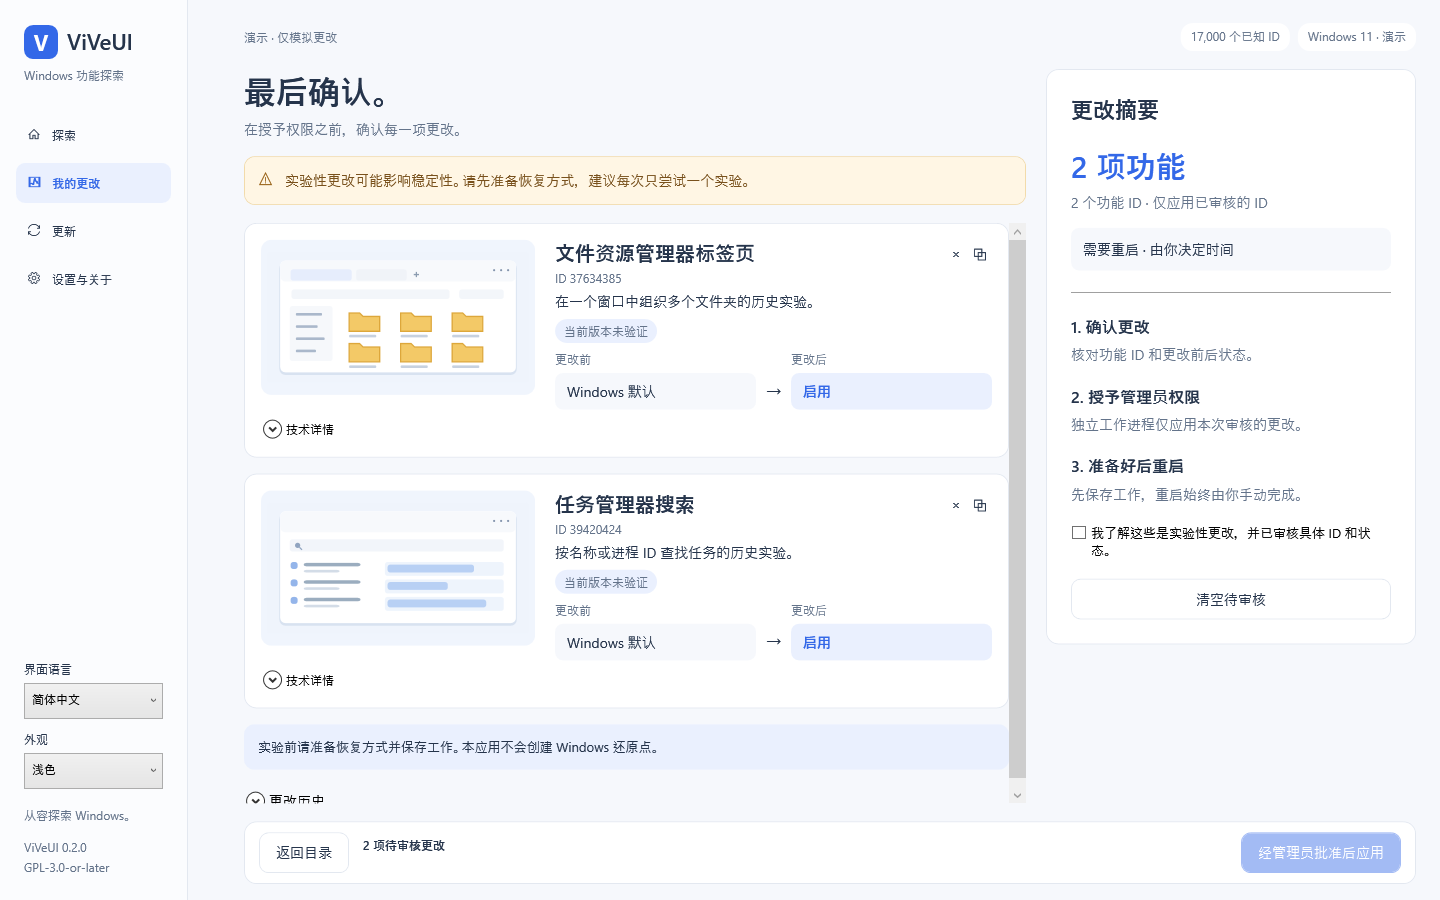
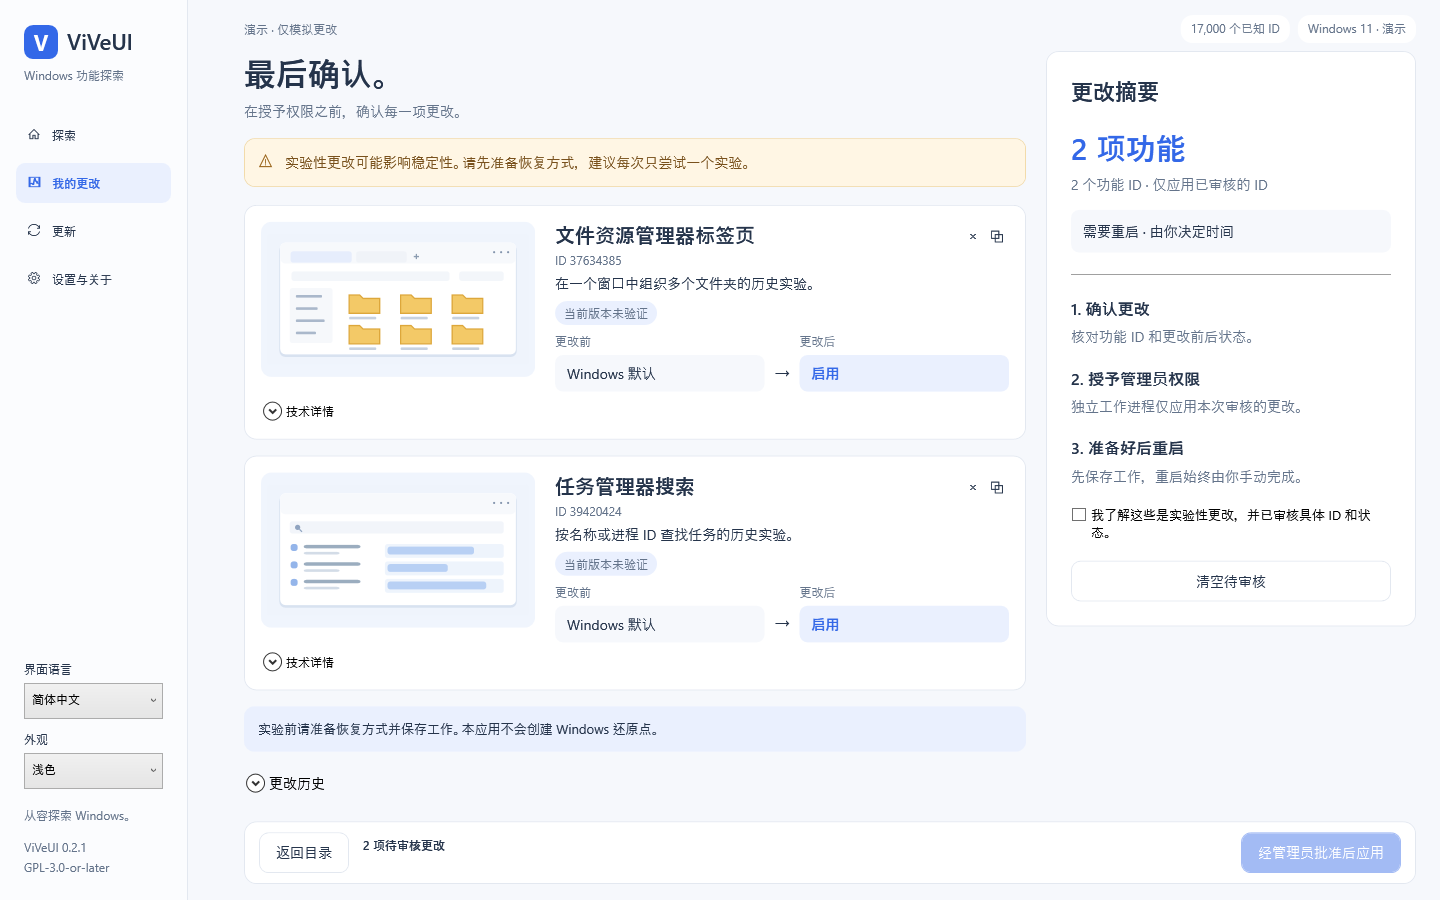
Refresh v0.2.1 previews and viewport validation evidence

diff --git a/docs/VALIDATION.md b/docs/VALIDATION.md
@@ -65,12 +65,19 @@ The byte-level test and `.gitattributes` prevent checkout newline conversion.
 
 ## Recorded release-candidate evidence
 
-[Windows run 37668845516](https://github.com/BlakeLiAFK/ViVeUI/actions/runs/37668845516)
+[Windows run 37670734723](https://github.com/BlakeLiAFK/ViVeUI/actions/runs/37670734723)
 passed all checks for implementation commit
-`8c4c8941a1164a8dd9cac9d80dc73608110face4`: 47 core tests, WPF build and
+`6ffc71c0bb4538ec9d7cadc587829c7d40a296d6`: 47 core tests, WPF build and
 ten-render UI interactions, cross-integrity IPC, both single-EXE publications,
 and the x64 clean-folder launch including extracted runtime notices.
 The [checked-in previews and reports](previews/) come from this run.
 The final release includes BUILD.json linking its independently validated exact
 commit and workflow; source and checksums are generated from that same commit.
 The final workflow also repeats the handshake using the bundled EXE itself.
+
+Version 0.2.1 checks the complete bounds of all four curated cards against their
+scroll viewport at 1440×900 in English and Chinese. It also requires nonempty
+observed/current-override values and the staging action to be visible, and rejects
+state values placed inside optional scroll content. Actual renders were inspected
+to confirm all card titles, statuses and category/details actions remain above the fold.
+Compact windows may scroll. The v0.2.0 release assets are preserved.

diff --git a/docs/previews/README.md b/docs/previews/README.md
@@ -1,8 +1,8 @@
 # ViVeUI native previews
 
 Original WPF control-tree renders with an in-memory demo backend.
-Implementation commit: `8c4c8941a1164a8dd9cac9d80dc73608110face4`.
-Generated by [Windows run 37668845516](https://github.com/BlakeLiAFK/ViVeUI/actions/runs/37668845516).
+Implementation commit: `6ffc71c0bb4538ec9d7cadc587829c7d40a296d6`.
+Generated by [Windows run 37670734723](https://github.com/BlakeLiAFK/ViVeUI/actions/runs/37670734723).
 All embedded illustrations are original GPL-3.0-or-later conceptual schematics.
 
 - [Explore, English](explore.png)
@@ -28,3 +28,9 @@ assertions, cross-integrity authenticated IPC, x64/ARM64 self-contained single-E
 builds, and an x64 clean-folder launch with only the EXE present.
 [UI evidence](smoke-result.txt) · [IPC evidence](ipc-result.json) ·
 [Standalone evidence](standalone-result.txt).
+
+Version 0.2.1 adds native 1440×900 viewport assertions: all four complete gallery
+cards (including status/category/detail actions), nonempty observed/override values,
+and the staging action must be fully visible. State values stay outside optional
+scroll content. English and Chinese Explore captures pass these assertions.
+[Bundled-EXE IPC evidence](standalone-ipc-result.json).

diff --git a/docs/DESIGN.md b/docs/DESIGN.md
@@ -58,3 +58,8 @@ Appearance offers system, light and dark settings; system high contrast takes
 precedence. The original navigation-pane drawing is distinct from the tabs drawing.
 At narrow widths, explore uses separate catalog/detail views and the review summary
 moves below the cards with its own scroll area. Primary footer actions remain fixed.
+
+The 0.2.1 refinement removes 37 px of excess Explore header spacing and trims
+gallery artwork height from 170 to 155 px. Current-state values remain fixed above
+the state controls while optional detail content scrolls. Native viewport checks
+protect all four cards and their actions at 1440×900 without reducing text size.

diff --git a/docs/RELEASING.md b/docs/RELEASING.md
@@ -5,7 +5,7 @@ self-contained .NET 8 single-file executables, SHA256SUMS.txt, complete correspo
 and actual WPF demo screenshots. Publishing a release is a separate deliberate
 maintainer action. CI does not silently publish or install.
 
-For a stable release, use a semantic tag (`v0.2.0`) and GitHub release assets named
+For a stable release, use a semantic tag (`v0.2.1`) and GitHub release assets named
 exactly `ViVeUI-win-x64.exe` and `ViVeUI-win-arm64.exe`, together with source and
 checksums from the same successful commit. The GitHub release API must provide
 `digest: sha256:<64 hex digits>` and a positive size for each binary EXE. Missing
